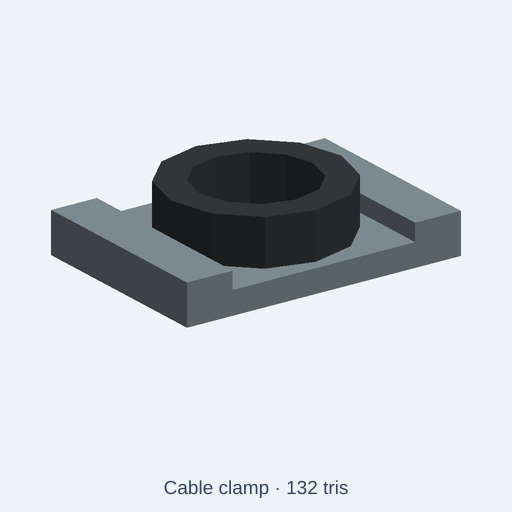
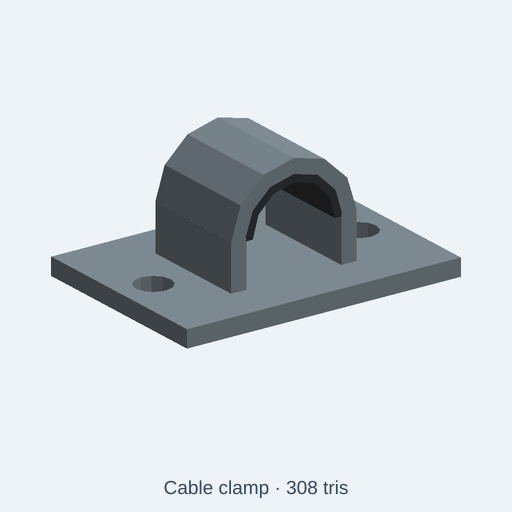
fix(catalog): give cable saddle a supported arch and real mounting bores

Changed region(s): [[0.0938, 0.2188, 0.9062, 0.6875], [0.5625, 0.9375, 0.625, 0.9688]]

diff --git a/tests/integration/catalog/cableClampFidelity.test.ts b/tests/integration/catalog/cableClampFidelity.test.ts
@@ -1,0 +1,89 @@
+// SPDX-License-Identifier: MIT
+// A CC0 scene prop only. Verify geometric identity, not load capacity or tolerances.
+import { beforeAll, describe, expect, it } from 'vitest';
+import { readFileSync } from 'node:fs';
+import { resolve } from 'node:path';
+import { NodeIO } from '@gltf-transform/core';
+import { initOcct } from '../../../src/kernel/backends/occt/occtBackend';
+import { buildCatalogAssetWithGlb } from '../../../src/agent/catalog/buildCatalog';
+import { runAndExport } from '../../../src/agent/script-runtime/export';
+
+type V = [number,number,number];
+type Tri = [V,V,V];
+const root = resolve(import.meta.dirname, '../../..');
+const path = 'catalog/kits/standard-components/cable-clamp.kcad.ts';
+const code = readFileSync(resolve(root,path),'utf8');
+const sub = (a:V,b:V):V => [a[0]-b[0],a[1]-b[1],a[2]-b[2]];
+const dot = (a:V,b:V) => a[0]*b[0]+a[1]*b[1]+a[2]*b[2];
+const cross = (a:V,b:V):V => [a[1]*b[2]-a[2]*b[1],a[2]*b[0]-a[0]*b[2],a[0]*b[1]-a[1]*b[0]];
+function rayHit(tris:Tri[],p:V,d:V):boolean {
+  return tris.some(([a,b,c])=>{
+    const e1=sub(b,a),e2=sub(c,a),h=cross(d,e2),det=dot(e1,h);
+    if(Math.abs(det)<1e-9) return false;
+    const f=1/det,q=sub(p,a),u=f*dot(q,h),r=cross(q,e1),v=f*dot(d,r),t=f*dot(e2,r);
+    return u>=-1e-7&&v>=-1e-7&&u+v<=1+1e-7&&t>1e-6&&t<100;
+  });
+}
+async function triangles(bytes:Uint8Array):Promise<Map<string,Tri[]>> {
+  const doc=await new NodeIO().readBinary(bytes),out=new Map<string,Tri[]>();
+  for(const node of doc.getRoot().listNodes()) {
+    const mesh=node.getMesh();if(!mesh)continue;
+    const m=node.getWorldMatrix(),tris:Tri[]=[];
+    for(const prim of mesh.listPrimitives()) {
+      const pos=prim.getAttribute('POSITION')!,idx=prim.getIndices(),count=idx?idx.getCount():pos.getCount();
+      for(let i=0;i<count;i+=3)tris.push([0,1,2].map(j=>{
+        const v=pos.getElement(idx?idx.getScalar(i+j):i+j,[]);
+        return [0,1,2].map(k=>1000*(m[k]!*v[0]!+m[k+4]!*v[1]!+m[k+8]!*v[2]!+m[k+12]!)) as V;
+      }) as Tri);
+    }
+    out.set(node.getName(),tris);
+  }
+  return out;
+}
+async function variant(src:string) {
+  const exp=await runAndExport({code:src,fileName:'cable-clamp.kcad.ts',scriptDir:resolve(root,'catalog/kits/standard-components'),format:'glb',options:{format:'glb',style:'lowpoly',lowpoly:{maxTriangles:420}}});
+  expect(exp.diagnostics.filter(d=>d.severity==='error')).toEqual([]);
+  return triangles(exp.bytes);
+}
+function accept(parts:Map<string,Tri[]>,s:number) {
+  expect([...parts.keys()].sort()).toEqual(['connected-steel-frame','separate-rubber-liner']);
+  const steel=parts.get('connected-steel-frame')!,liner=parts.get('separate-rubber-liner')!;
+  expect(steel.length).toBeGreaterThan(100);
+  expect(liner.length).toBeGreaterThan(15);
+  // Authored Z -> GLB Y; authored Y -> GLB -Z. Check *native exported triangles*.
+  for(const x of [-18,18]) {
+    expect(rayHit(steel,[x*s,-2*s,0],[0,1,0]),'mounting hole must cross all steel').toBe(false);
+  }
+  expect(rayHit(steel,[14*s,-2*s,0],[0,1,0]),'surrounding plate must remain solid').toBe(true);
+  expect(rayHit(steel,[0,15*s,-20*s],[0,0,1]),'cable through-passage must be unobstructed').toBe(false);
+  expect(rayHit(liner,[0,15*s,-20*s],[0,0,1]),'liner must not plug cable').toBe(false);
+  expect(rayHit(steel,[0,20*s,-20*s],[0,0,1]),'upper load path needs a steel arch').toBe(true);
+  expect(rayHit(liner,[0,18.5*s,-20*s],[0,0,1]),'liner must be a distinct inner shell').toBe(true);
+}
+beforeAll(async()=>{await initOcct();},30000);
+describe('cable clamp CC0 structural fidelity',()=>{
+  it('has two real mounting bores, connected frame, separate liner and clear cable bore',async()=>{
+    const {asset,glb}=await buildCatalogAssetWithGlb(root,path);
+    expect(asset.description).toMatch(/illustrative CC0 low-poly/i);
+    expect(asset.description).toMatch(/not a load-rated/i);
+    expect(asset.stats.triangles).toBeLessThanOrEqual(asset.triangleBudget);
+    expect(asset.stats.sizeM.map(n=>Math.round(1000*n)).sort((a,b)=>a-b)).toEqual([48,34,22].sort((a,b)=>a-b));
+    accept(await triangles(glb),1);
+  },30000);
+  it('rejects a plate that covers the two mounting holes',async()=>{
+    const broken=code.replace('frame = frame.subtract(hole);','');
+    expect(broken).not.toBe(code);
+    const steel=(await variant(broken)).get('connected-steel-frame')!;
+    expect(rayHit(steel,[18,-2,0],[0,1,0])).toBe(true);
+  },30000);
+  it('rejects a closed solid arch that plugs the cable path',async()=>{
+    const broken=code.replace('.subtract(cylinder(21*s, 8.5*s, 32).translate(0, 0, -s))','');
+    expect(broken).not.toBe(code);
+    const steel=(await variant(broken)).get('connected-steel-frame')!;
+    expect(rayHit(steel,[0,15,-20],[0,0,1])).toBe(true);
+  },30000);
+  it('preserves mount, steel arch and liner across compact and large variants',async()=>{
+    for(const [name,s] of [['compact',.75],['large',1.25]] as const)
+      accept(await variant(code.replace("param('size', 'standard'",`param('size', '${name}'`)),s);
+  },60000);
+});

diff --git a/catalog/kits/standard-components/cable-clamp.kcad.ts b/catalog/kits/standard-components/cable-clamp.kcad.ts
@@ -1,15 +1,16 @@
-// Distinctive geometry: Low-profile cable saddle with two fixing ears and a rounded cable guide
+// A low-poly cable saddle, with usable mounting holes and a cable passage.
+// The continuous steel frame supports the arch; the rubber liner is separate.
 meta({
   name: 'cable-clamp',
   license: 'CC0-1.0',
   title: 'Cable clamp',
-  description: 'Low-profile cable saddle with two fixing ears and a rounded cable guide Knobs: model size, steel, rubber.',
+  description: 'Illustrative CC0 low-poly cable saddle: two open mounting holes, a connected steel arch and a separate rubber liner around the cable passage. Not a load-rated, toleranced or vendor manufacturing model. Knobs: model size and display colors.',
   tags: ['cable clamp', 'wire clamp', 'strain relief', 'electrical'],
   kit: 'standard-components',
   category: 'attachment',
   origin: 'base',
   compat: ['mechanical', 'industrial', 'workshop', 'assembly'],
-  triangleBudget: 300,
+  triangleBudget: 420,
 });
 
 const size = param('size', 'standard', { choices: ['compact', 'standard', 'large'], label: 'Model size' });
@@ -24,8 +25,25 @@ presets({
 const s = size.value === 'compact' ? 0.75 : size.value === 'large' ? 1.25 : 1;
 const block = (x: number, y: number, z: number, w: number, d: number, h: number) => box(w, d, h).translate(x, y, z);
 const a = assembly('cable-clamp');
-a.part('foot',block(-24*s,-17*s,0,48*s,34*s,4*s).color(steel));
-a.part('saddle',cylinder(8*s,15*s,12).subtract(cylinder(10*s,10*s,12).translate(0,0,-s)).translate(0,0,4*s).color(rubber));
-a.part('ear-left',block(-24*s,-17*s,0,8*s,34*s,7*s).color(steel));
-a.part('ear-right',block(16*s,-17*s,0,8*s,34*s,7*s).color(steel));
+// Plate sits below a straight-through cable path (along Y). Both mounting
+// holes pass through the plate and remain clear of the arched cable seat.
+let frame = block(-24*s, -17*s, 0, 48*s, 34*s, 3*s);
+for (const x of [-18, 18]) {
+  const hole = cylinder(5*s, 3.1*s, 16).translate(x*s, 0, -s);
+  frame = frame.subtract(hole);
+}
+// Upper annulus is only the TOP half of the cable saddle. Side supports
+// extend down to the plate: no floating rubber ring or solid blocked bore.
+const upperClip = block(-13*s, -10.5*s, 10.5*s, 26*s, 21*s, 12*s);
+const arch = cylinder(19*s, 11*s, 32)
+  .subtract(cylinder(21*s, 8.5*s, 32).translate(0, 0, -s))
+  .rotateX(90).translate(0, 9.5*s, 10.5*s).intersect(upperClip);
+frame = frame.union(block(-11*s, -9.5*s, 3*s, 2.7*s, 19*s, 8*s))
+  .union(block(8.3*s, -9.5*s, 3*s, 2.7*s, 19*s, 8*s))
+  .union(arch);
+a.part('connected-steel-frame', frame.color(steel));
+const liner = cylinder(19*s, 8.5*s, 32)
+  .subtract(cylinder(21*s, 7.2*s, 32).translate(0, 0, -s))
+  .rotateX(90).translate(0, 9.5*s, 10.5*s).intersect(upperClip);
+a.part('separate-rubber-liner', liner.color(rubber));
 return a.model();
